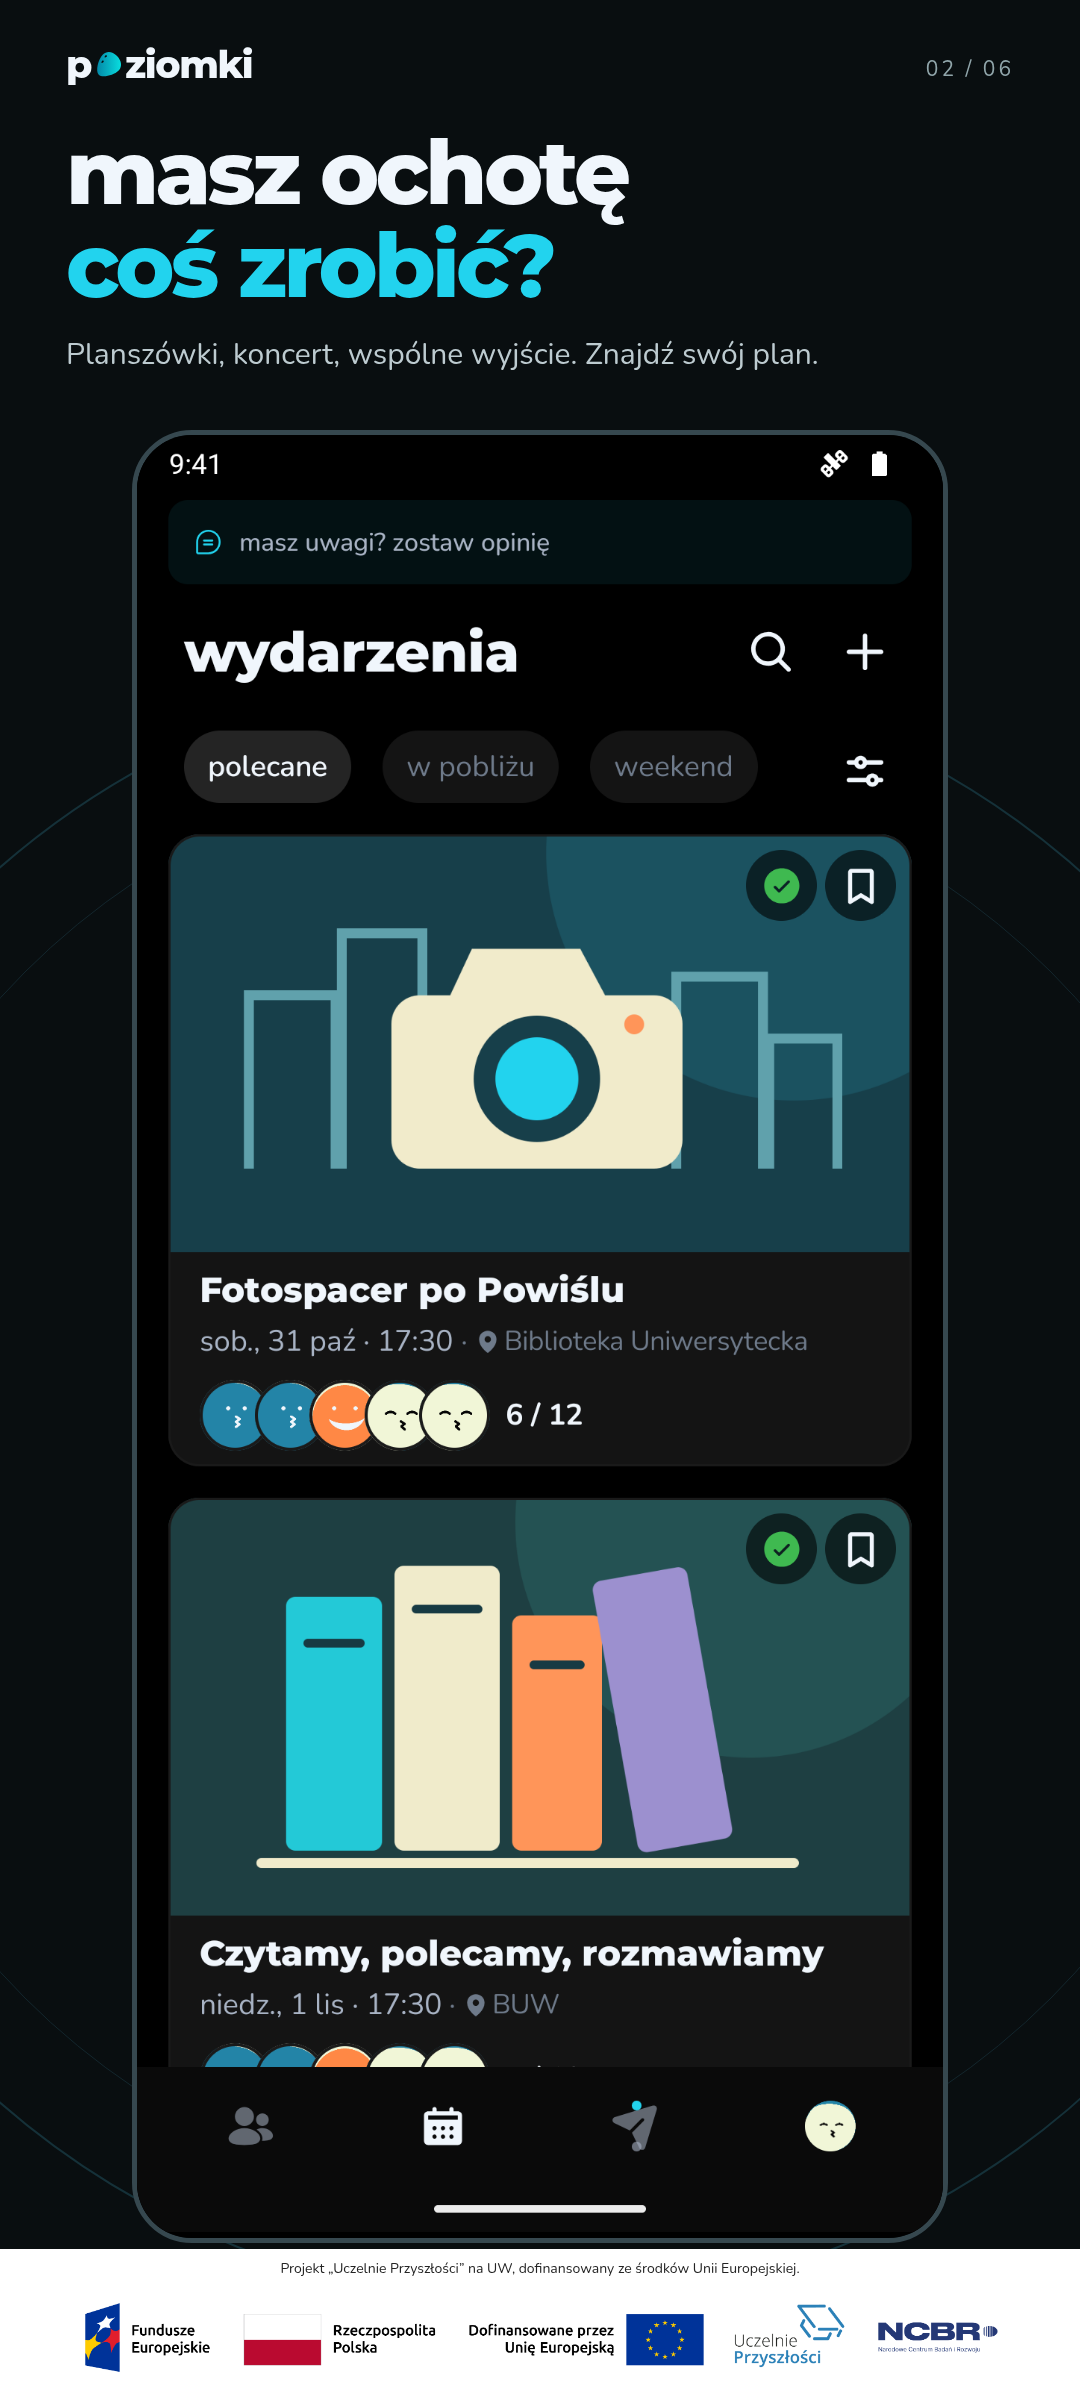
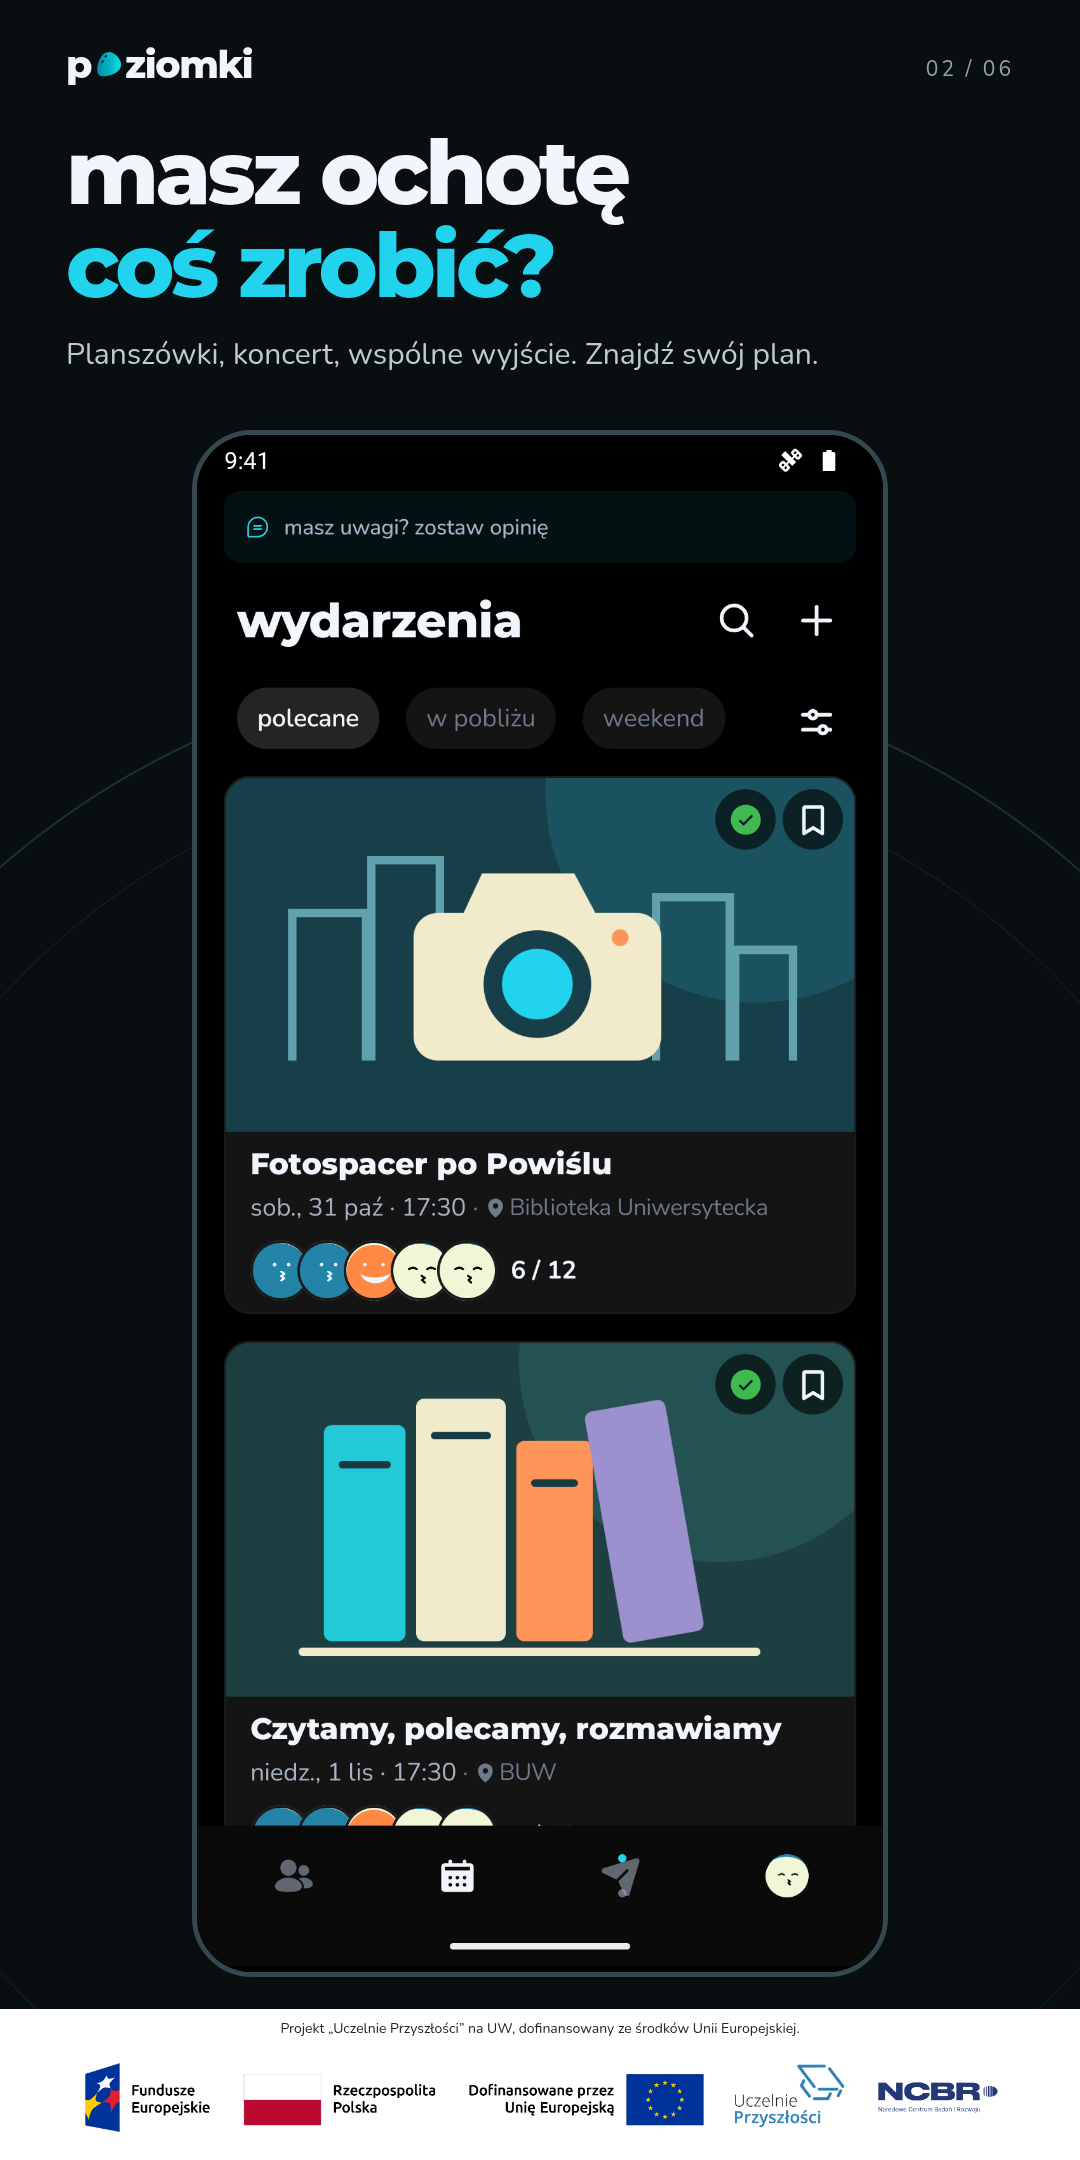
Add offline marketing gallery and correct Google Play screenshot proportions

Changed region(s): [[0.0, 0.0, 1.0, 0.9926], [0.7028, 0.2481, 0.7333, 0.2792], [0.6722, 0.2792, 0.7028, 0.3102]]

diff --git a/marketing/showcase.html b/marketing/showcase.html
@@ -6,7 +6,7 @@
 @font-face{font-family:Heading;src:url('/fonts/montserrat_extrabold.ttf');font-weight:800}
 @font-face{font-family:Body;src:url('/fonts/nunito_regular.ttf')}
 *{box-sizing:border-box}html,body{margin:0;background:#090e10;color:#f0f6fc}
-body{width:1080px;height:2400px;overflow:hidden;font-family:Body,sans-serif;position:relative}
+body{width:1080px;height:2160px;overflow:hidden;font-family:Body,sans-serif;position:relative}
 .brand{position:absolute;left:66px;top:46px;display:flex;align-items:center;font:800 38px/1 Heading,sans-serif;letter-spacing:-1.4px}.brand img{width:32px;height:36px;object-fit:contain;margin:0 1px}
 .sequence{position:absolute;right:66px;top:55px;color:#90a5aa;font-size:21px;letter-spacing:3px}
 header{position:absolute;left:66px;right:66px;top:126px;z-index:2}
@@ -16,6 +16,7 @@ h1{font:800 89px/1.04 Heading,sans-serif;letter-spacing:-3.8px;margin:0;color:#f
 .orbit:after{content:"";position:absolute;inset:92px;border:1px solid #13262d;border-radius:50%}
 .phone{position:absolute;left:132px;top:430px;width:816px;aspect-ratio:1080/2400;background:#000;border:5px solid #36484f;border-radius:60px;overflow:hidden;z-index:1}
 .phone img{display:block;width:100%;height:100%;object-fit:contain;background:#000}
+.android-phone .phone{left:192px;width:696px}
 .label{display:none}
 .funding{position:absolute;bottom:0;left:0;right:0;height:151px;background:#fff;z-index:3;color:#242424;display:flex;flex-direction:column;align-items:center;justify-content:center;gap:7px;padding:12px 38px}
 .funding p{font-size:14px;line-height:1.3;margin:0;text-align:center}.funding img{width:94%;height:auto;display:block}
@@ -47,6 +48,7 @@ const scenes=[
 ];
 const q=new URLSearchParams(location.search),index=Number(q.get('scene')||0),platform=q.get('platform')||'android',kind=q.get('kind')||'phone';
 const scene=scenes[index];document.querySelector('h1').innerHTML=scene[0];document.querySelector('.subtitle').textContent=scene[1];document.querySelector('.label').textContent=scene[2];document.querySelector('.sequence').textContent=String(index+1).padStart(2,'0')+' / 06';
+if(platform==='android'&&kind==='phone')document.body.classList.add('android-phone');
 document.querySelector('#screen').src='/source/'+platform+'/'+String(index+1).padStart(2,'0')+'.png';
 if(platform==='ios'){
  const ios=[

diff --git a/docs/marketing.md b/docs/marketing.md
@@ -15,7 +15,12 @@ Wymagane są Node.js 22 lub nowszy oraz `agent-browser` z działającą przeglą
 ```sh
 node marketing/render-showcase.mjs all
 node scripts/google-marketing.mjs validate
+node marketing/build-review.mjs /sciezka/absolutna/poziomki-materialy-marketingowe.html
 ```
+
+Galeria HTML zawiera wszystkie 17 plansz, osadzone fonty i obrazy, pola opisów oraz instrukcję przesyłania. Działa bez internetu, umożliwia powiększanie i pobieranie pojedynczych PNG.
+
+Plansze telefonów Google Play mają 1080 × 2160 px, zgodnie z limitem proporcji 2:1. Walidator sprawdza również 24-bitowy RGB bez kanału alfa.
 
 Renderer uruchamia serwer wyłącznie na loopback, eksportuje PNG bez kanału alfa i zamyka własną sesję przeglądarki. Zaktualizuj pliki w `source/` przed eksportem nowej wersji interfejsu.
 
